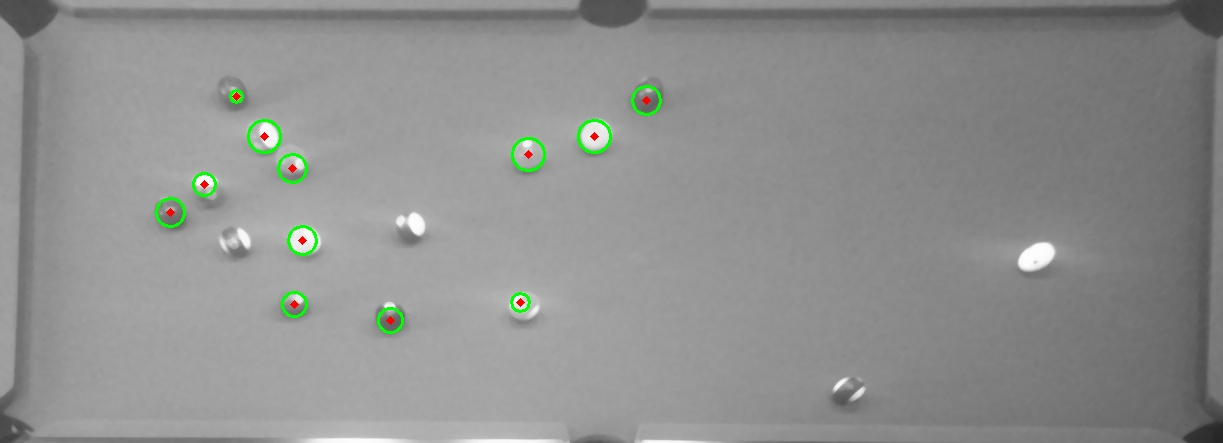
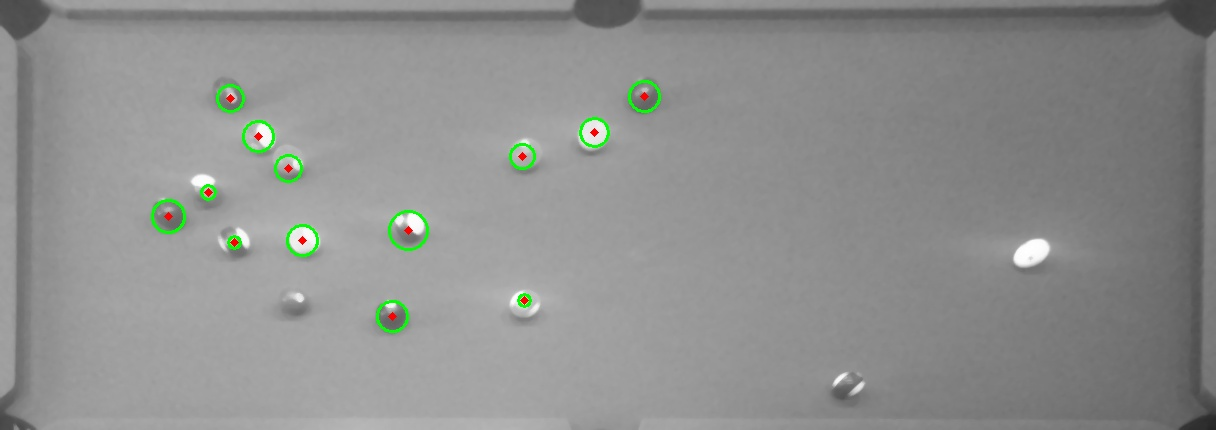
working kinda, current problems are cannot exit while running, and runtime error in physics for dividing and adding

diff --git a/main.py b/main.py
@@ -4,36 +4,45 @@ from ball import ball
 from draw_table import Table
 from detection import Image_Detection as ImD
 
+walls = {'top' : 84, 'bottom' : 789, 'left' : 84, 'right' : 1494}
+
 def activeProjection(): #input is a table object
 	# cap = cv2.VideoCapture(0)
 	# ret, frame = cap.read()
 	img, warped, pts = calibration.calibrate_interface('pool_pic.JPG') # returns the original image, the sheared image, and the points used to warp the image
 	I = ImD()
 	I.wall_finder(warped)
-	ballList = I.write_circles(warped)
+	ballList = normalizeBallsToWalls(I, I.write_circles(warped))
 	t = Table(ballList)
 	screen = pygame.display.set_mode((1579,873))
 	table = pygame.image.load('pool_table.png')
 	screen = pygame.display.set_mode((1579,873))
 	table = pygame.image.load('pool_table.png')
 	screen.blit(table,(0,0))
+	for thing in t.ballList:
+		print('x {} y {}'.format(thing.pos[0], thing.pos[1]))
 	while(True):
-		t.ballList = detection.detectBalls
+		t.ballList = normalizeBallsToWalls(I, I.write_circles(warped))
 		# cue = detection.detectCue # need a function to detect the cue and return it as something, maybe a line or just two points
 		# t.initializeHitFromCue(cue)
-		for ball in t.ballList:
-			pygame.draw.circle(screen, t.colors[ball.num], [int(x) for x in ball.pos], ball.radius)
-		pygame.display.update()
-		for x in range(100):
-			t.ballList = physics.run(t.ballList, t.walls, t.pockets)
+		if(t.ballList != None):
 			for ball in t.ballList:
-				pygame.draw.circle(screen, t.colors[ball.num], [int(x) for x in ball.pos], 1)
-		pygame.display.update()
+				pygame.draw.circle(screen, t.colors[ball.num], [int(x) for x in ball.pos], ball.radius)
+			pygame.display.update()
+			for x in range(100):
+				t.ballList = physics.run(t.ballList, t.walls, t.pockets)
+				for ball in t.ballList:
+					pygame.draw.circle(screen, t.colors[ball.num], [int(x) for x in ball.pos], 1)
+			pygame.display.update()
+		else:
+			print('no balls')
 		for event in pygame.event.get():
 			if event.type == pygame.QUIT:
-				running = False
 				pygame.quit()
 				sys.exit()
+
+def normalizeBallsToWalls(I, ballList):
+	return [ball(int(float(b.pos[0] - I.lr_walls[0]) / (I.lr_walls[1] - I.lr_walls[0]) * (walls['right'] - walls['left']) + walls['left']), int(float(b.pos[1] - I.tb_walls[0]) / (I.tb_walls[1] - I.tb_walls[0]) * (walls['bottom'] - walls['top']) + walls['top']), b.num) for b in ballList]
 
 if __name__ == '__main__': # so this is currently pseudo-code, and we will need to define these explicit functions that will return specific values
 	activeProjection()

diff --git a/calibration.py b/calibration.py
@@ -88,19 +88,19 @@ def calibrate_interface(img):
     # initialize the window and set interaction function
     if type(img) == str:
         img = cv2.imread(img)
-    cv2.namedWindow('original')
-    cv2.setMouseCallback('original', store_points)
+    cv2.namedWindow('Corner calibration')
+    cv2.setMouseCallback('Corner calibration', store_points)
 
     while True:
         # display the input image
-        cv2.imshow('original',img)
+        cv2.imshow('Corner calibration',img)
 
         # wait until there have been 4 clicks
         if len(ref_pts) > 3:
             pts = np.array(ref_pts)
             warped = four_point_transform(img, pts)
             #display the transformed image
-            cv2.imshow('warped', warped)
+            cv2.imshow('Warped image', warped)
             cv2.waitKey(0)
             break
 

diff --git a/detection.py b/detection.py
@@ -28,7 +28,7 @@ class Image_Detection(object):
 		    # draw the center of the circle
 		    cv2.circle(cimg,(i[0],i[1]),2,(0,0,255),3)
 		    #ball_list
-		    self.ball_list.append([i[0],i[1],count])
+		    self.ball_list.append(ball(i[0],i[1],count))
 		    #counter
 		    count+=1
 
